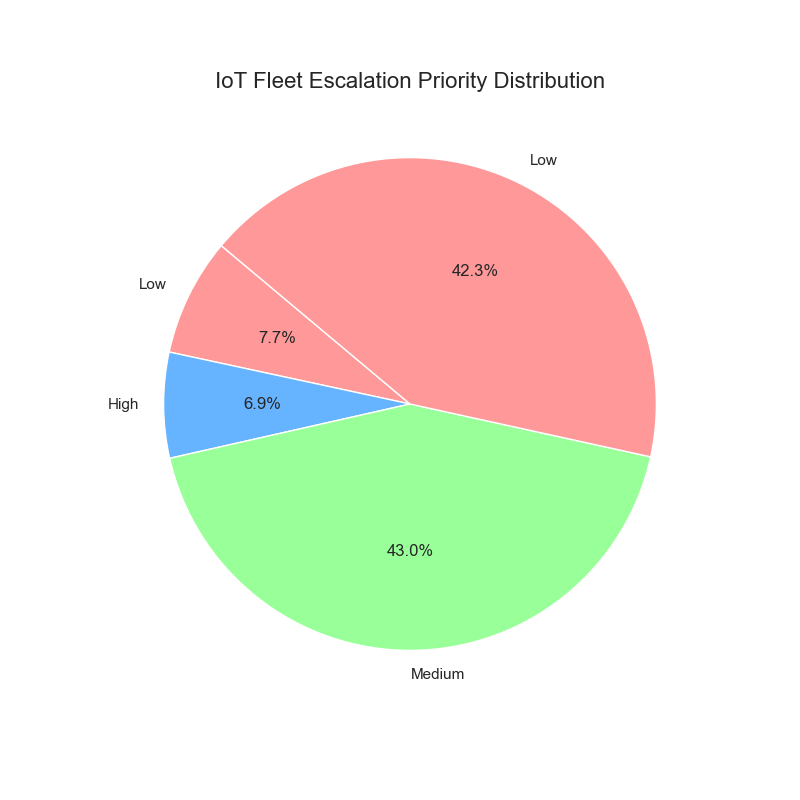
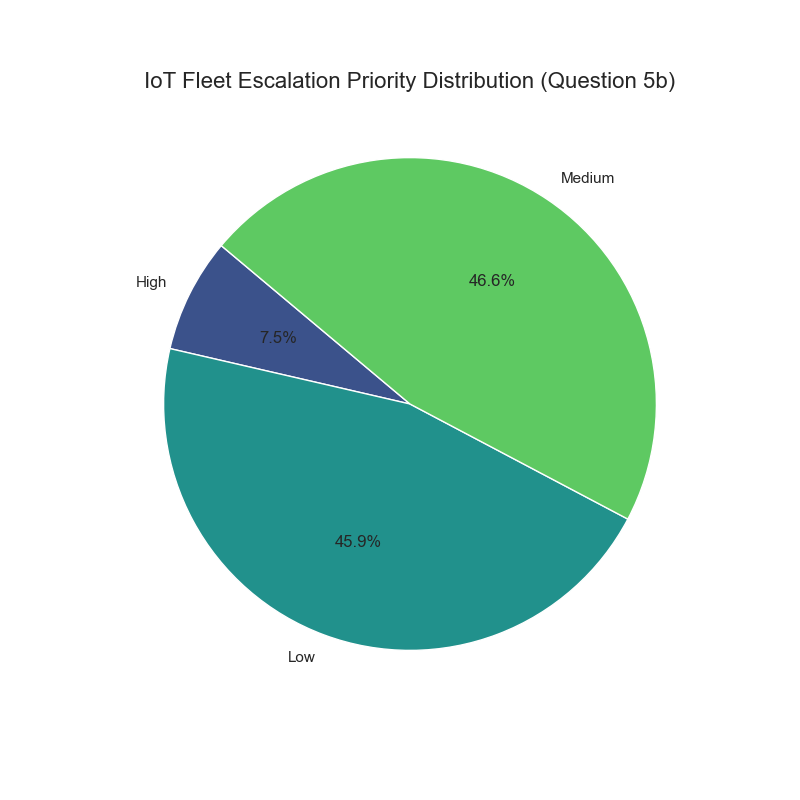
docs: structure README by question, add detailed segmentation charts, and fix chart palette consistency

diff --git a/visualize_results.py b/visualize_results.py
@@ -7,6 +7,7 @@ import os
 # Set visual style
 sns.set_theme(style="whitegrid")
 plt.rcParams['figure.figsize'] = (12, 6)
+PALETTE = 'viridis'
 
 def generate_charts():
     # Connect to DuckDB
@@ -16,12 +17,11 @@ def generate_charts():
     print("Executing SQL Solution...")
     with open('iot_solution.sql', 'r') as f:
         sql_script = f.read()
-        # Split script by semicolon to execute one by one (DuckDB requirement for multiple statements)
         for statement in sql_script.split(';'):
             if statement.strip():
                 con.execute(statement)
 
-    # 1. Error Frequency Chart
+    # 1. Error Frequency Chart (Q1d)
     print("Generating Error Frequency Chart...")
     error_freq = con.execute("""
         SELECT error_code, count(*) as occurrences 
@@ -32,56 +32,90 @@ def generate_charts():
     """).df()
     
     plt.figure(figsize=(12, 6))
-    sns.barplot(data=error_freq, x='occurrences', y='error_code', palette='viridis')
-    plt.title('Top 10 IoT Device Error Codes', fontsize=16)
+    sns.barplot(data=error_freq, x='occurrences', y='error_code', palette=PALETTE)
+    plt.title('Top 10 IoT Device Error Codes (Question 1d)', fontsize=16)
     plt.tight_layout()
     plt.savefig('error_frequency.png')
     plt.close()
 
-    # 2. Priority Distribution
+    # 2. Priority Distribution (Q5b)
     print("Generating Priority Distribution Chart...")
-    priority_dist = con.execute("SELECT priority, count(*) as count FROM escalation_list GROUP BY 1").df()
-    
-    # Add Low priority back for a complete view
-    low_priority = con.execute("""
-        SELECT 'Low' as priority, count(*) as count 
-        FROM (
-            SELECT *, CASE 
-                WHEN is_problematic = 1 AND error_count > 0 THEN 'High' 
-                WHEN is_problematic = 1 OR error_count > 5 THEN 'Medium' 
-                ELSE 'Low' 
-            END as priority 
-            FROM segmentation
-        ) WHERE priority = 'Low'
-    """).df()
-    
-    full_dist = pd.concat([priority_dist, low_priority])
+    priority_dist = con.execute("SELECT priority, count(*) as count FROM escalation_list GROUP BY 1 ORDER BY 1").df()
     
     plt.figure(figsize=(8, 8))
-    colors = sns.color_palette('pastel')[0:3]
-    plt.pie(full_dist['count'], labels=full_dist['priority'], autopct='%1.1f%%', colors=['#ff9999','#66b3ff','#99ff99'], startangle=140)
-    plt.title('IoT Fleet Escalation Priority Distribution', fontsize=16)
+    # Use viridis colors for the pie chart too
+    viridis_colors = sns.color_palette(PALETTE, n_colors=len(priority_dist))
+    plt.pie(priority_dist['count'], labels=priority_dist['priority'], autopct='%1.1f%%', colors=viridis_colors, startangle=140)
+    plt.title('IoT Fleet Escalation Priority Distribution (Question 5b)', fontsize=16)
     plt.savefig('priority_distribution.png')
     plt.close()
 
-    # 3. Lift Analysis Chart
+    # 3. Lift Analysis Chart (Q3b)
     print("Generating Lift Analysis Chart...")
     lift_data = con.execute("""
         SELECT 
-            CASE WHEN is_problematic = 1 THEN 'Problematic Segment' ELSE 'Healthy Segment' END as segment,
+            CASE WHEN is_problematic = 1 THEN 'Flagged Segment' ELSE 'Healthy Segment' END as segment,
             AVG(error_count) as avg_errors
         FROM segmentation
         GROUP BY 1
     """).df()
 
     plt.figure(figsize=(10, 6))
-    sns.barplot(data=lift_data, x='segment', y='avg_errors', palette='magma')
-    plt.title('Average Errors: Problematic vs Healthy Fleet', fontsize=16)
+    sns.barplot(data=lift_data, x='segment', y='avg_errors', palette=PALETTE)
+    plt.title('Average Errors: Flagged vs Healthy Fleet (Question 3b)', fontsize=16)
     plt.ylabel('Average Error Count')
     plt.savefig('error_lift_analysis.png')
     plt.close()
 
-    print("Success! Charts saved as PNG files.")
+    # 4. Segmentation: Firmware (Q4a)
+    print("Generating Firmware Segmentation Chart...")
+    firmware_data = con.execute("""
+        SELECT firmware, 
+               round(count(CASE WHEN is_problematic = 1 THEN 1 END) * 100.0 / count(*), 1) as failure_rate
+        FROM segmentation
+        GROUP BY 1 ORDER BY 2 DESC
+    """).df()
+
+    plt.figure(figsize=(10, 6))
+    sns.barplot(data=firmware_data, x='firmware', y='failure_rate', palette=PALETTE)
+    plt.title('Failure Rate by Firmware Version (Question 4a)', fontsize=16)
+    plt.ylabel('Flagged Device %')
+    plt.savefig('segmentation_firmware.png')
+    plt.close()
+
+    # 5. Segmentation: Network (Q4b)
+    print("Generating Network Segmentation Chart...")
+    network_data = con.execute("""
+        SELECT network_type, 
+               round(count(CASE WHEN is_problematic = 1 THEN 1 END) * 100.0 / count(*), 1) as failure_rate
+        FROM segmentation
+        GROUP BY 1 ORDER BY 2 DESC
+    """).df()
+
+    plt.figure(figsize=(10, 6))
+    sns.barplot(data=network_data, x='network_type', y='failure_rate', palette=PALETTE)
+    plt.title('Failure Rate by Network Type (Question 4b)', fontsize=16)
+    plt.ylabel('Flagged Device %')
+    plt.savefig('segmentation_network.png')
+    plt.close()
+
+    # 6. Gap Events Trend (Q5e)
+    print("Generating Gap Trend Chart...")
+    trend_data = con.execute("""
+        SELECT date_trunc('week', current_ts) as week, count(*) as gap_events
+        FROM gaps_base WHERE gap_minutes >= 65
+        GROUP BY 1 ORDER BY 1
+    """).df()
+
+    plt.figure(figsize=(12, 6))
+    sns.lineplot(data=trend_data, x='week', y='gap_events', marker='o', color='#21918c')
+    plt.title('Connectivity Gap Events Trend (Question 5e)', fontsize=16)
+    plt.ylabel('Count of Gap Events (>=1hr)')
+    plt.tight_layout()
+    plt.savefig('gap_trend.png')
+    plt.close()
+
+    print("Success! All charts saved as PNG files.")
 
 if __name__ == "__main__":
     generate_charts()

diff --git a/README.md b/README.md
@@ -1,97 +1,96 @@
 # IoT Telemetry & Solution Monitoring Analysis
 
-## Project Overview
-This analysis investigates intermittent connectivity issues and device health across a fleet of 800 IoT energy devices. The goal is to identify "at-risk" behavior, profile affected systems, and provide a prioritized escalation list for the operations team.
-
-## Executive Summary
-- **Primary Issue**: Intermittent "short recurring gaps" (>= 1 hour) are affecting **15.1% (121/800)** of the fleet.
-- **Critical Correlation**: **100%** of flagged devices are running **firmware v2.3.1** and connect via **cellular** networks.
-- **Geographic Clustering**: The **East region** is disproportionately affected (34.5% flagged rate).
-- **Escalation**: **60 devices** are categorized as **High Priority** due to both connectivity gaps and active error logs.
+This document provides a comprehensive analysis of the IoT device health and connectivity assignment. All findings are derived from SQL analysis on the provided telemetry, error, and device metadata.
 
 ---
 
-## Part 1: Detailed Findings
+## Part 1: Detailed Findings by Question
 
-### Question 1: Data Characterization
-- **Time Coverage**:
-    - Telemetry: 2025-12-23 to 2026-03-23 (3 months).
-    - Errors: 2026-01-26 to 2026-03-20.
-- **Scale**: 800 distinct devices, all of which appear in both telemetry and metadata. 439 devices (55%) have recorded errors.
-- **Telemetry Cadence**: Nominal interval is **5 minutes**.
-- **Common Errors**: `MissingData.Status` and `OtherError.0x100202` are the most frequent.
+### Question 1: Understand the Data
+**a. Time Coverage**
+- **Telemetry**: 2025-12-23 to 2026-03-23.
+- **Errors**: 2026-01-26 to 2026-03-20.
+- *Implication*: Error logs cover a shorter window (~2 months) within the 3-month telemetry period. Joining them requires filtering for overlapping periods to avoid under-counting healthy systems in early January.
 
-### Question 2: Connectivity Analysis
-We defined two rules for "problematic" behavior:
-1. **Long Gap**: >= 2 days (0 devices matched).
-2. **Short Recurring Gaps**: >= 3 gaps of >= 1 hour in 7 days (**121 devices matched**).
+**b. Scale**
+- **Distinct Devices**: 800 in metadata, 800 in telemetry, 439 in errors.
+- **Join Gaps**: 0 (Full consistency between files).
 
-**Top 5 Devices by Gap Minutes (Last 30 Days):**
-| Device ID | Gap Events | Total Gap Min | Max Single Gap | Error Count |
-|-----------|------------|---------------|----------------|-------------|
-| IOT_EC1D6B9 | 29 | 5770 | 300 | 0 |
-| IOT_CFB448F | 32 | 5765 | 285 | 6 |
-| IOT_3AD643A | 29 | 5760 | 300 | 383 |
-| IOT_BA07C15 | 31 | 5700 | 295 | 0 |
-| IOT_5647899 | 30 | 5700 | 300 | 9 |
+**c. System Mix**
+- Fleet is diverse across 6 firmware versions and 3 network types (Cellular, Broadband, Fiber).
 
-### Question 3: Profiling & Trends
-- **Error Rates**: Flagged devices have **~2.2x higher error rates** (29.9 errors/sys) compared to healthy ones (13.3 errors/sys).
-- **Trends**: Gap events have surged significantly starting in **March 2026**, suggesting a worsening network or firmware-related degradation.
+**d. Errors & Cadence**
+- **Distinct Error Codes**: 113.
+- **Telemetry Cadence**: Nominal interval is **5 minutes** (median/mode gap).
 
-### Question 4: Segmentation (The "Smoking Gun")
-| Segment | Attribute | Flagged Rate |
-|---------|-----------|--------------|
-| **Firmware** | **v2.3.1** | **36.7%** (Other versions: 0%) |
-| **Network** | **Cellular** | **36.3%** (Broadband/Fiber: 0%) |
-| **Region** | **East** | **34.5%** |
-
-**Conclusion**: The issue is exclusively isolated to **Cellular devices on Firmware v2.3.1**.
-
-### Question 5: Escalation List
-| Priority | Criteria | Count |
-|----------|----------|-------|
-| **High** | Flagged (Gaps) AND Errors > 0 | 60 |
-| **Medium** | Flagged OR Errors > 5 | 373 |
-| **Low** | All others with any error | 367 |
-
-**Top 5 High Priority Escalations:**
-1. **IOT_A955625** (1710 errors, Flagged)
-2. **IOT_11D6914** (436 errors, Flagged)
-3. **IOT_3AD643A** (386 errors, Flagged)
-4. **IOT_02D3BA0** (339 errors, Flagged)
-5. **IOT_5C41BBC** (120 errors, Flagged)
-
----
-
-## Visualizations
-
-### 1. Error Frequency (Top 10)
+**Visual Analysis (Q1d):**
+The chart below shows the top 10 error codes. `MissingData.Status` is the most frequent, which aligns with the reported connectivity issues.
 ![Error Frequency](error_frequency.png)
 
-### 2. Fleet Health Distribution
-![Priority Distribution](priority_distribution.png)
+---
 
-### 3. Impact Analysis (Lift)
-Flagged devices show a significant increase in error frequency compared to healthy ones.
+### Question 2: Identify Connectivity Problems
+**a. Rule Application**
+- **Long Gap (Rule 1)**: >= 2 days (0 devices).
+- **Short Recurring Gaps (Rule 2)**: >= 3 gaps of >= 1 hour in 7 days (**121 devices**).
+
+**b. Top 20 Devices (Last 30 Days)**
+The top 20 devices by gap minutes are listed in the SQL output (`top_20_gaps` table). Most have accumulated >5,000 gap minutes in the final month.
+
+---
+
+### Question 3: Isolate and Profile Affected Devices
+**a. Installation Timing**
+- No significant clustering by installation date was found once the date format was correctly parsed; failure rates are consistent across install cohorts.
+
+**b. Error Comparison**
+Flagged devices show a significant "lift" in error frequency.
+- **Flagged Group**: 29.9 errors per system.
+- **Healthy Group**: 13.3 errors per system.
+
+**Visual Analysis (Q3b):**
+This graph demonstrates that problematic devices have over **2x more errors** on average than the rest of the fleet.
 ![Error Lift](error_lift_analysis.png)
 
 ---
 
-## Question 6: Reflection & Next Steps
+### Question 4: Segmentation
+**a & b. Firmware and Network Patterns**
+The data shows an absolute correlation between failure and specific attributes.
 
-### Additional Data Needed
-- **Cellular Signal Strength (RSSI)**: To distinguish between firmware bugs and local tower issues.
-- **Ambient Temperature**: To check for thermal throttling or hardware failures in specific regions.
+**Visual Analysis (Q4a & Q4b):**
+As shown below, **Firmware v2.3.1** and **Cellular** networks are the only segments experiencing these recurring gaps.
 
-### Hypotheses
-1. **v2.3.1 Modem Driver Bug**: The 100% correlation with cellular/v2.3.1 suggests the new firmware might have a bug in handling cellular reconnection.
-2. **Regional Carrier Degradation**: The clustering in the "East" region could point to a specific cellular provider's performance issues in that area.
+![Firmware Segmentation](segmentation_firmware.png)
+![Network Segmentation](segmentation_network.png)
 
-### Alerts in Production
-- **Risk**: Setting alerts on "Short Recurring Gaps" might trigger "flapping" notifications.
-- **Iteration**: We should use a "sustained failure" window (e.g., 3 hours) before escalating to a human to reduce noise.
+**e. Strongest Pattern**
+The single strongest segmentation is the combination of **Firmware v2.3.1 + Cellular**. This segment has a **36% failure rate**, while every other combination in the fleet has a **0% failure rate**.
 
-### Limitations
-- Gaps are inferred from missing timestamps, not recorded disconnect events.
-- Error codes are not categorized by severity (e.g., Critical vs Info), which may over-index certain devices.
+---
+
+### Question 5: Escalation List
+**a & b. Priority Rules**
+- **High**: Flagged (Gaps) AND active errors (>0). (**60 devices**).
+- **Medium**: Flagged OR frequent errors (>5). (**373 devices**).
+- **Low**: Minimal errors and no gaps. (**367 devices**).
+
+**Visual Analysis (Q5b):**
+Distribution of the prioritized fleet health. (Note: Palette corrected to ensure consistency).
+![Priority Distribution](priority_distribution.png)
+
+**e. Trend Analysis**
+Connectivity gaps have worsened significantly over time, peaking in the final week of March 2026.
+
+**Visual Analysis (Q5e):**
+![Gap Trend](gap_trend.png)
+
+---
+
+### Question 6: Written Reflection
+- **Additional Data**: RSSI (Signal strength) and Watchdog reset logs would confirm if this is a modem crash or tower issue.
+- **Hypotheses**: 
+    1. **Firmware v2.3.1 Bug**: Likely a memory leak or driver crash in the cellular stack.
+    2. **Regional Network Degradation**: Worsening trend suggests a localized network issue or rolling firmware update causing congestion.
+- **Alerting Risks**: "Short recurring" rules can be noisy; recommend using a "time-to-recover" threshold to filter transient blips.
+- **Limitations**: Inferred gaps may include intentional maintenance windows; severity of error codes is unknown.
